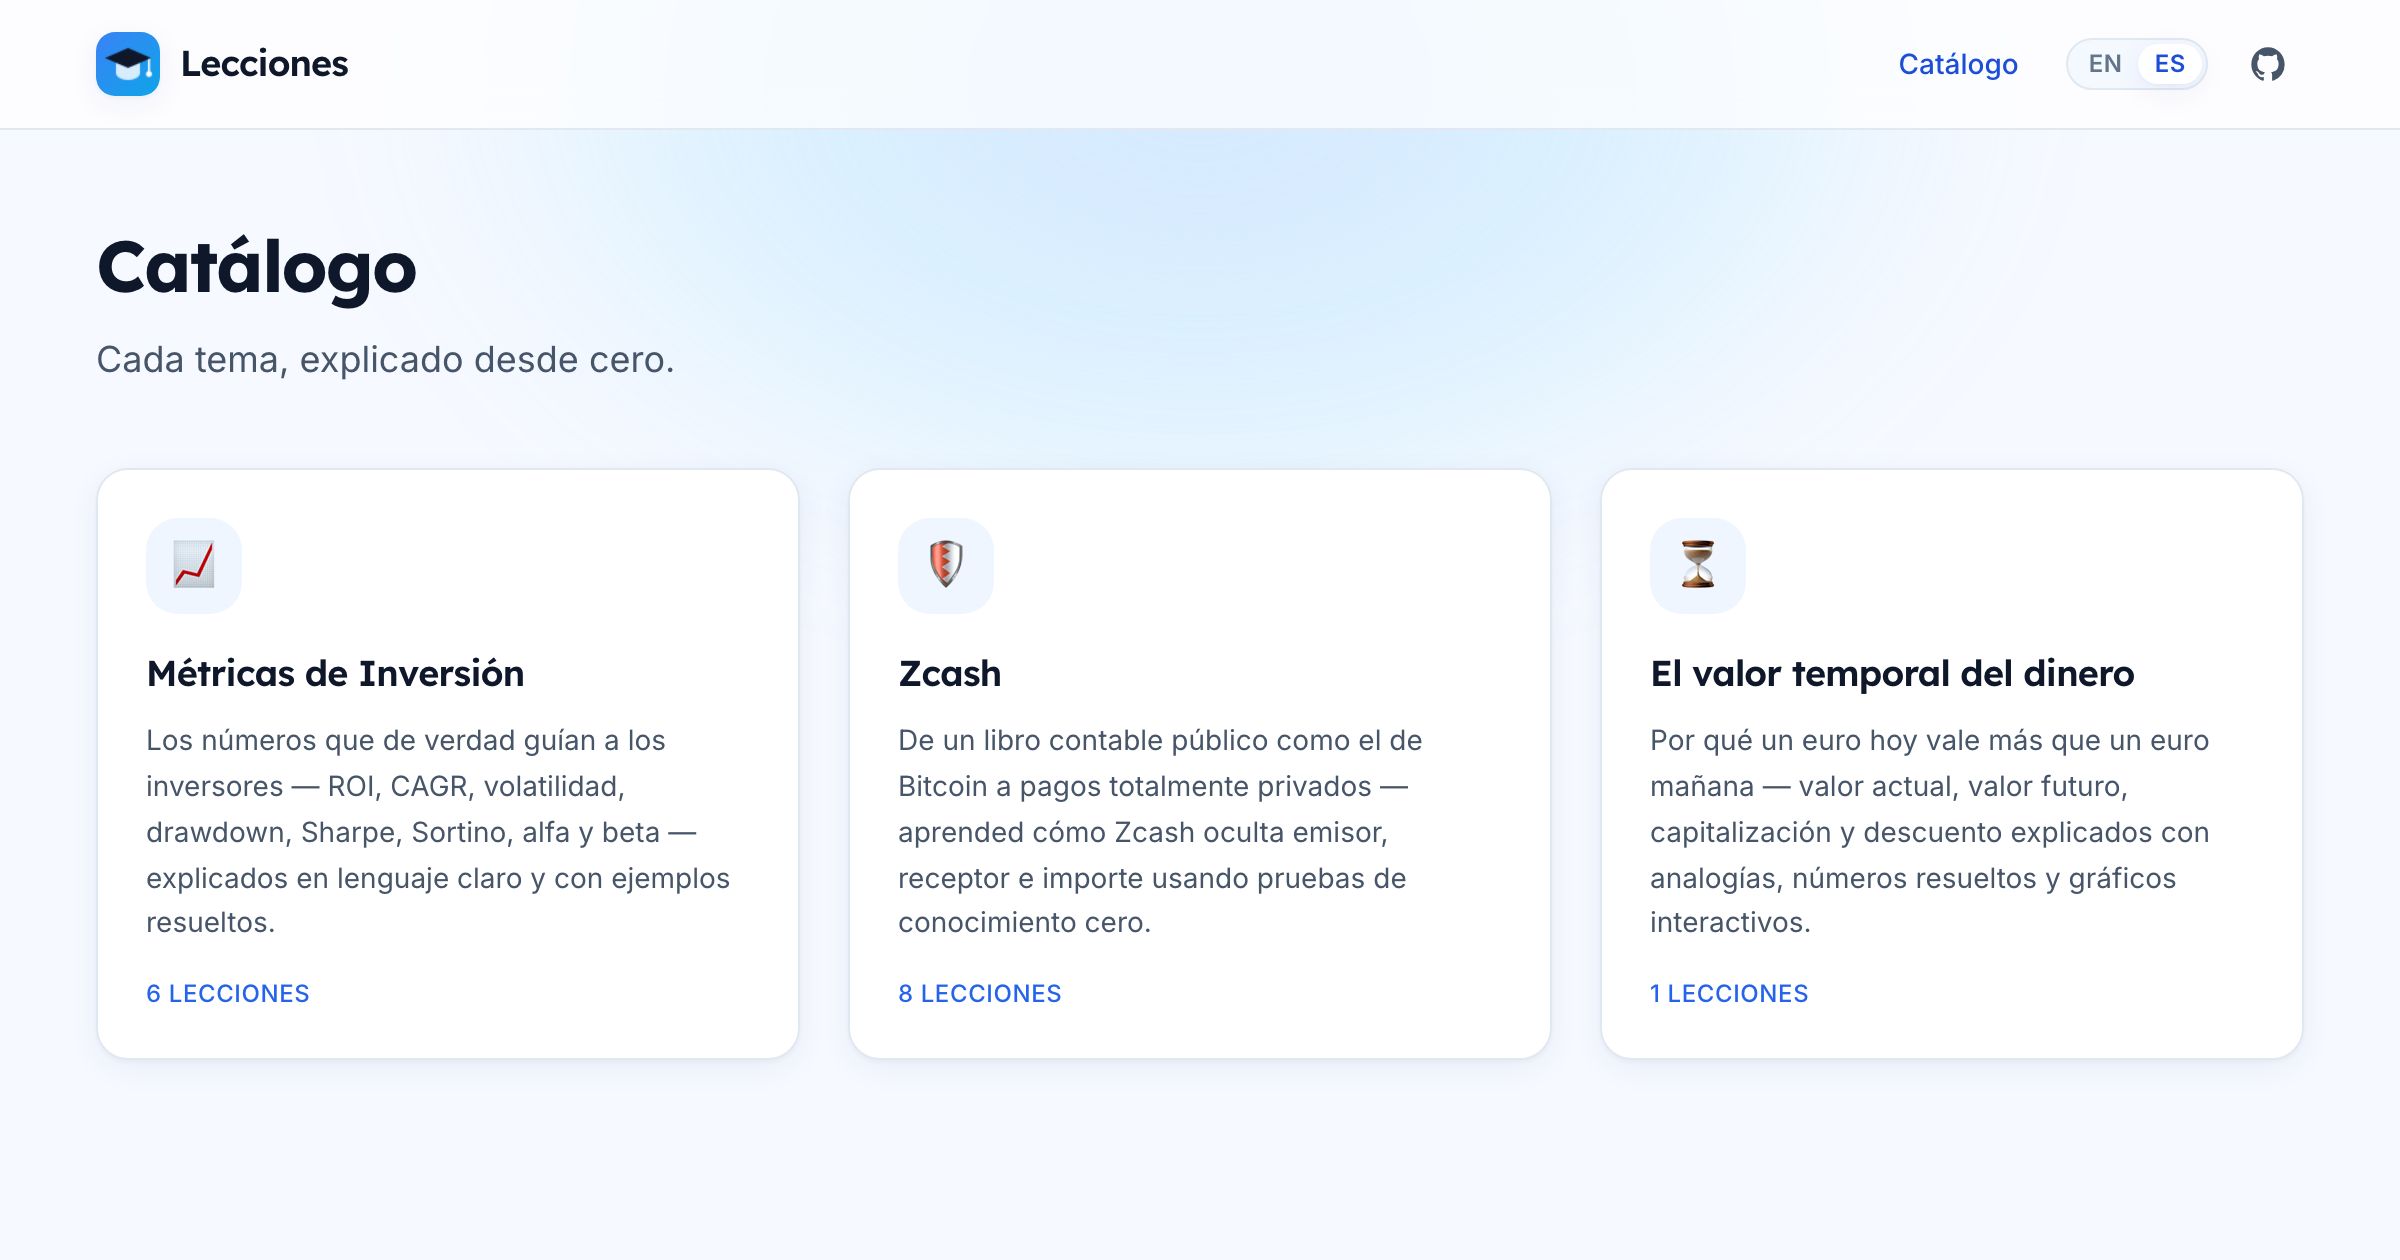
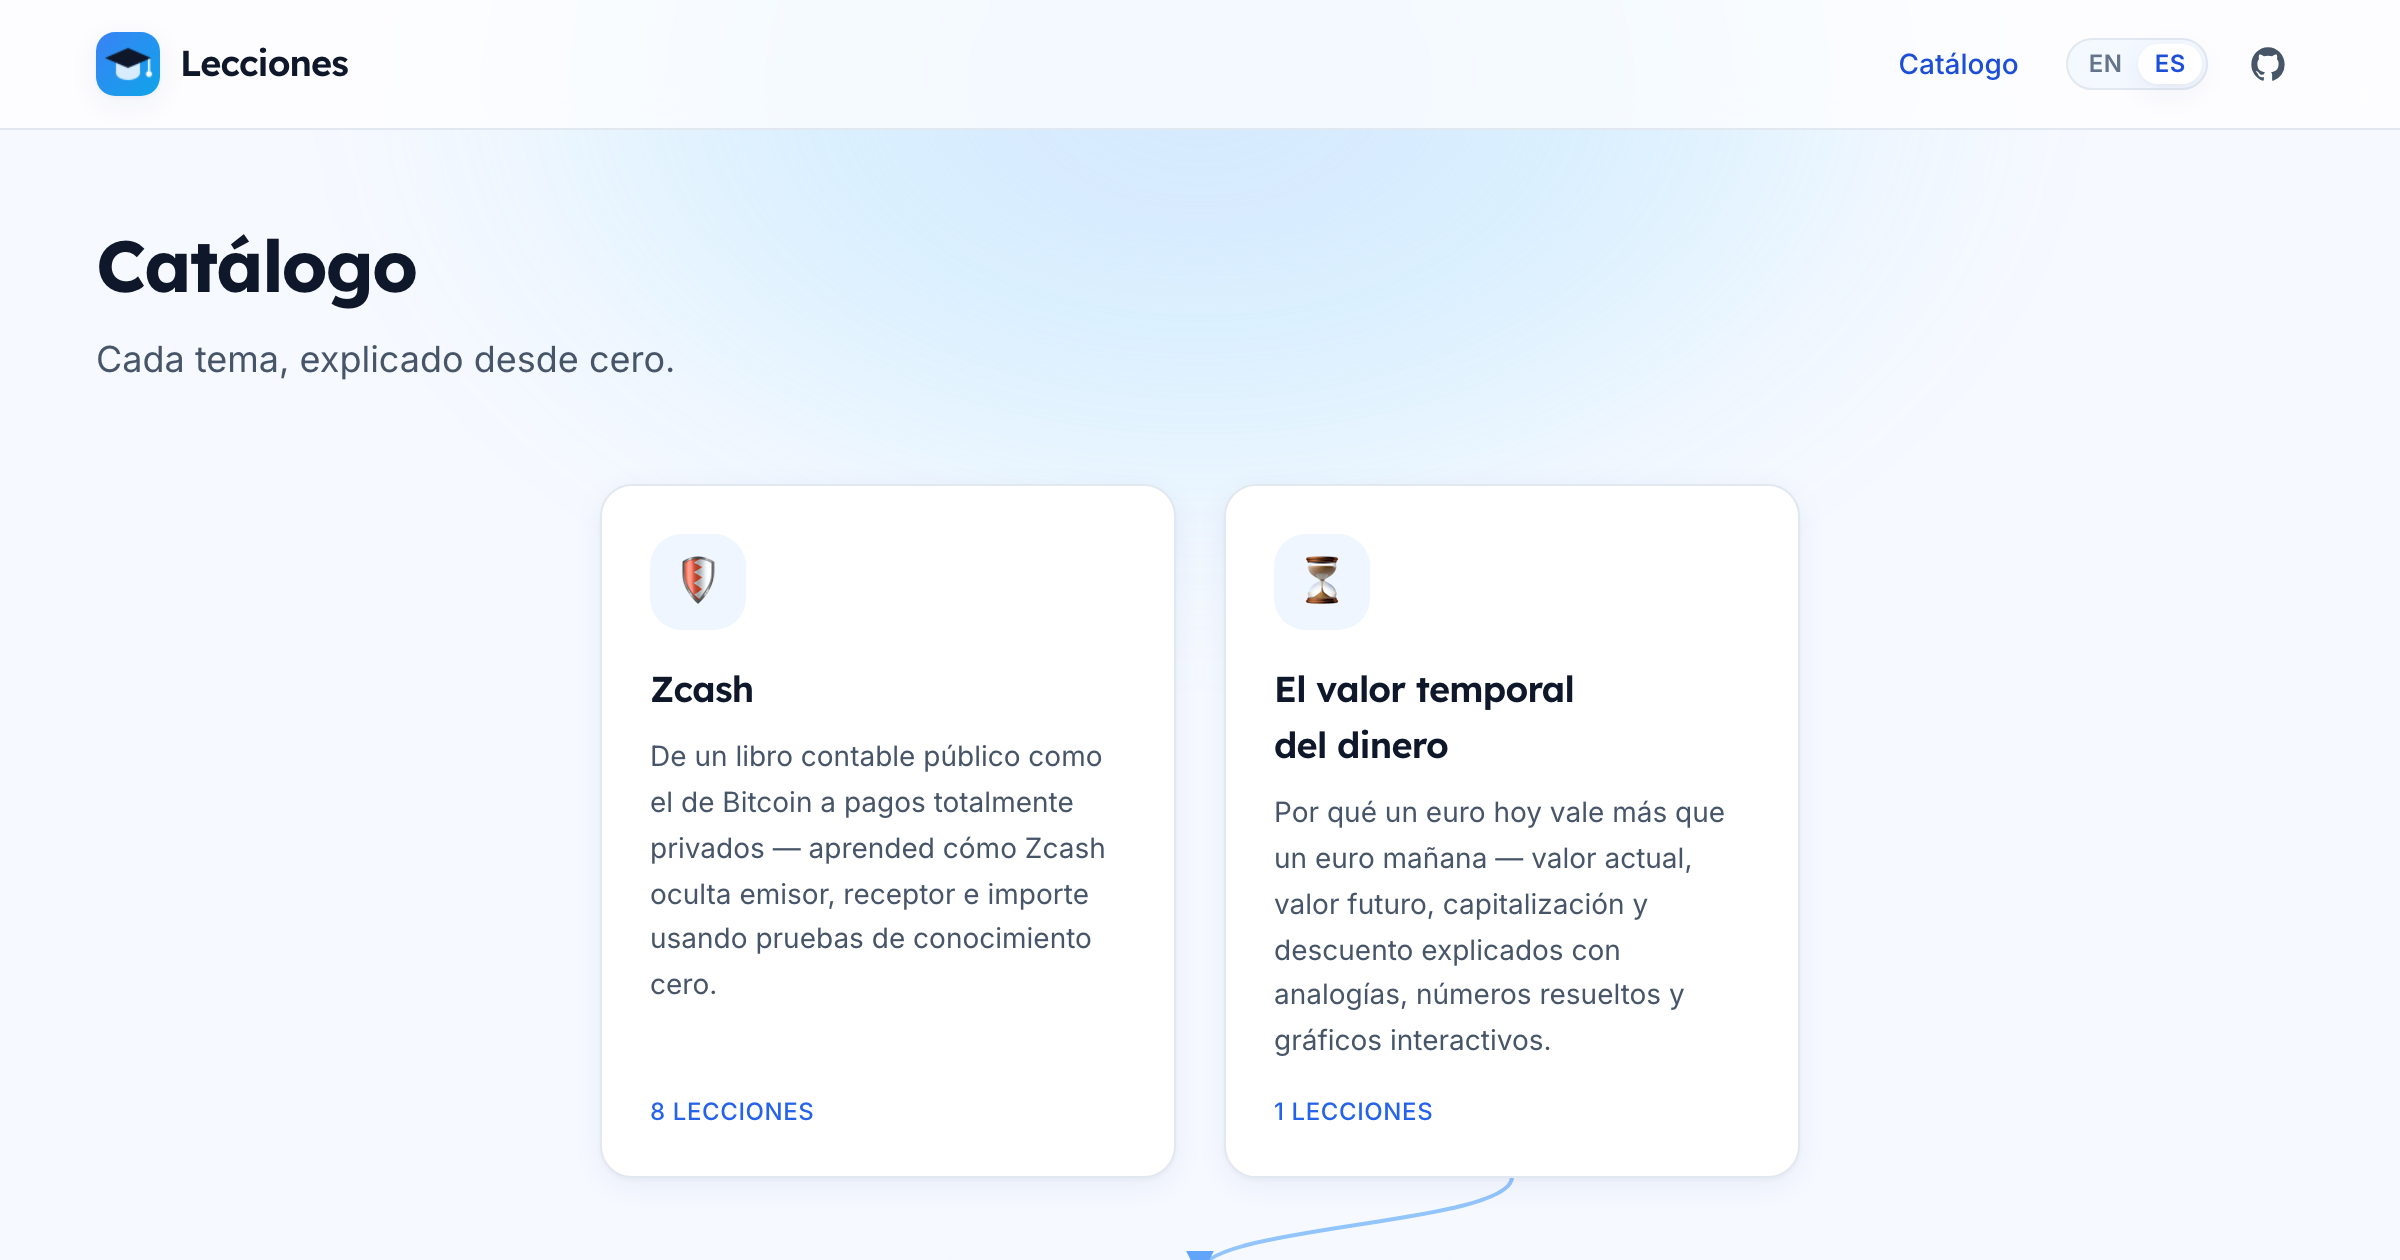
feat(catalog): render catalog as a dependency graph (roadmap.sh-style)
Add a reusable CourseGraph island that plots topics as a layered DAG:
cards flow through responsive flexbox rows (one per dependency depth) and
prerequisite arrows are an SVG overlay measured from the real DOM, so they
stay glued to the cards across resize/font swaps. Cards are real links in
reading order (a11y), motion-reduce safe.

Add a locale-agnostic `dependencies` (bare slugs) field to the topics
schema; wire both catalog pages to the graph. Adding a course needs no code
change — just a topic MDX with its dependencies array.

diff --git a/src/components/react/CourseGraph.tsx b/src/components/react/CourseGraph.tsx
@@ -1,0 +1,266 @@
+import { useCallback, useEffect, useLayoutEffect, useRef, useState } from 'react';
+import { cx } from '@/components/react/cx';
+
+/**
+ * One course (topic) node in the {@link CourseGraph}. Locale-agnostic: all
+ * user-facing strings (`title`, `description`) and the `href` are resolved by
+ * the caller, so the same component renders the en and es catalogs.
+ */
+export interface CourseNode {
+  /** Bare topic slug — stable id used to wire up {@link dependencies}. */
+  slug: string;
+  /** Localized course title. */
+  title: string;
+  /** Localized one-line summary. */
+  description: string;
+  /** Emoji / short chip label. */
+  icon: string;
+  /** Localized link to the topic landing page. */
+  href: string;
+  /** Number of lessons inside the course. */
+  lessons: number;
+  /** Accent token suffix used for the node tint. */
+  accent?: 'brand' | 'accent';
+  /**
+   * Bare slugs of prerequisite courses (drawn as incoming edges). Unknown
+   * slugs are ignored so a half-built dependency list never breaks the graph.
+   */
+  dependencies?: string[];
+}
+
+/** Props for the {@link CourseGraph} component. */
+export interface CourseGraphProps {
+  /** Every course to plot. Order within a layer follows array order. */
+  nodes: CourseNode[];
+  /** Label after the lesson count, e.g. `'lessons'`. */
+  lessonsLabel?: string;
+  /** Caption shown beneath the graph (e.g. how to read the arrows). */
+  caption?: string;
+  /** Shown when `nodes` is empty. */
+  emptyLabel?: string;
+  /** Extra classes merged onto the root element. */
+  className?: string;
+}
+
+/** A measured edge: a cubic-bezier path string from prerequisite → course. */
+interface EdgePath {
+  id: string;
+  d: string;
+}
+
+/**
+ * Topological depth of every node = its layer (row) in the graph. A node with
+ * no (known) prerequisites sits on layer 0; otherwise it's one below its
+ * deepest prerequisite. Cycles and dangling deps are tolerated — a node never
+ * counts itself and unknown slugs are skipped — so the layout always resolves.
+ */
+function computeLayers(nodes: CourseNode[]): Map<string, number> {
+  const bySlug = new Map(nodes.map((n) => [n.slug, n]));
+  const depth = new Map<string, number>();
+
+  const visit = (slug: string, stack: Set<string>): number => {
+    const cached = depth.get(slug);
+    if (cached !== undefined) return cached;
+    const node = bySlug.get(slug);
+    if (!node) return 0;
+    // Guard against cycles: treat a back-edge as no constraint.
+    if (stack.has(slug)) return 0;
+    stack.add(slug);
+
+    const deps = (node.dependencies ?? []).filter((d) => bySlug.has(d) && d !== slug);
+    const d = deps.length === 0 ? 0 : 1 + Math.max(...deps.map((dep) => visit(dep, stack)));
+    stack.delete(slug);
+    depth.set(slug, d);
+    return d;
+  };
+
+  for (const n of nodes) visit(n.slug, new Set());
+  return depth;
+}
+
+/**
+ * Catalog graph island — renders every course as a card and draws an arrow
+ * from each prerequisite to the courses that depend on it, roadmap.sh-style,
+ * so the learning order and dependencies are obvious at a glance.
+ *
+ * Layout is deliberately split in two: the **cards** flow through plain,
+ * responsive flexbox rows (one row per dependency layer), while the **edges**
+ * are an SVG overlay whose paths are *measured* from the real DOM positions
+ * after layout — so the arrows stay glued to the cards through any reflow
+ * (resize, font swap, wrapping) without hand-computed coordinates. Cards are
+ * real `<a>` links in reading order, keeping the graph keyboard- and
+ * screen-reader-navigable; the SVG is decorative (`aria-hidden`).
+ *
+ * To add a course: drop a new topic MDX with a `dependencies` array — no
+ * code changes here.
+ */
+export function CourseGraph({
+  nodes,
+  lessonsLabel = 'lessons',
+  caption,
+  emptyLabel = 'No courses yet — check back soon.',
+  className,
+}: CourseGraphProps) {
+  const containerRef = useRef<HTMLDivElement>(null);
+  // One DOM ref per card, keyed by slug, so we can measure centers for edges.
+  const cardRefs = useRef(new Map<string, HTMLAnchorElement>());
+  const [edges, setEdges] = useState<EdgePath[]>([]);
+  const [size, setSize] = useState<{ w: number; h: number }>({ w: 0, h: 0 });
+
+  const layers = computeLayers(nodes);
+  const maxLayer = nodes.reduce((m, n) => Math.max(m, layers.get(n.slug) ?? 0), 0);
+  // Group nodes into rows by layer, preserving array order within each row.
+  const rows: CourseNode[][] = Array.from({ length: maxLayer + 1 }, () => []);
+  for (const n of nodes) rows[layers.get(n.slug) ?? 0].push(n);
+
+  const measure = useCallback(() => {
+    const container = containerRef.current;
+    if (!container) return;
+    const box = container.getBoundingClientRect();
+    const centerOf = (el: HTMLElement) => {
+      const r = el.getBoundingClientRect();
+      return {
+        top: r.top - box.top,
+        bottom: r.bottom - box.top,
+        cx: r.left - box.left + r.width / 2,
+      };
+    };
+
+    const next: EdgePath[] = [];
+    const bySlug = new Set(nodes.map((n) => n.slug));
+    for (const n of nodes) {
+      const toEl = cardRefs.current.get(n.slug);
+      if (!toEl) continue;
+      const to = centerOf(toEl);
+      for (const dep of n.dependencies ?? []) {
+        if (!bySlug.has(dep) || dep === n.slug) continue;
+        const fromEl = cardRefs.current.get(dep);
+        if (!fromEl) continue;
+        const from = centerOf(fromEl);
+        // Bezier from prerequisite's bottom edge to dependent's top edge.
+        const x1 = from.cx;
+        const y1 = from.bottom;
+        const x2 = to.cx;
+        const y2 = to.top;
+        const dy = Math.max(24, (y2 - y1) / 2);
+        next.push({
+          id: `${dep}->${n.slug}`,
+          d: `M ${x1} ${y1} C ${x1} ${y1 + dy}, ${x2} ${y2 - dy}, ${x2} ${y2}`,
+        });
+      }
+    }
+    setSize({ w: container.clientWidth, h: container.clientHeight });
+    setEdges(next);
+  }, [nodes]);
+
+  // Measure after layout and on every resize of the container.
+  useLayoutEffect(() => {
+    measure();
+  }, [measure]);
+
+  useEffect(() => {
+    const container = containerRef.current;
+    if (!container || typeof ResizeObserver === 'undefined') return;
+    const ro = new ResizeObserver(() => measure());
+    ro.observe(container);
+    // Re-measure once web fonts settle (they shift card heights).
+    if (typeof document !== 'undefined' && 'fonts' in document) {
+      document.fonts.ready.then(() => measure()).catch(() => {});
+    }
+    return () => ro.disconnect();
+  }, [measure]);
+
+  if (nodes.length === 0) {
+    return <p className={cx('mt-12 text-ink-500', className)}>{emptyLabel}</p>;
+  }
+
+  return (
+    <figure className={cx('not-prose', className)}>
+      <div ref={containerRef} className="relative">
+        {/* Edge overlay — measured from the cards, purely decorative. */}
+        <svg
+          aria-hidden="true"
+          className="pointer-events-none absolute inset-0 h-full w-full overflow-visible"
+          width={size.w || undefined}
+          height={size.h || undefined}
+        >
+          <defs>
+            <marker
+              id="course-arrow"
+              viewBox="0 0 10 10"
+              refX="8"
+              refY="5"
+              markerWidth="7"
+              markerHeight="7"
+              orient="auto-start-reverse"
+            >
+              <path d="M 0 0 L 10 5 L 0 10 z" className="fill-brand-400" />
+            </marker>
+          </defs>
+          {edges.map((e) => (
+            <path
+              key={e.id}
+              d={e.d}
+              fill="none"
+              className="stroke-brand-300"
+              strokeWidth={2}
+              strokeLinecap="round"
+              markerEnd="url(#course-arrow)"
+            />
+          ))}
+        </svg>
+
+        {/* Card layers — plain responsive flow; arrows snap to these. */}
+        <ol className="relative flex list-none flex-col gap-y-12 p-0">
+          {rows.map((row, layer) => (
+            <li key={layer} className="m-0 p-0">
+              <ul className="flex list-none flex-wrap justify-center gap-6 p-0">
+                {row.map((n) => {
+                  const tint = n.accent === 'accent' ? 'bg-accent-50' : 'bg-brand-50';
+                  const tintText =
+                    n.accent === 'accent' ? 'group-hover:text-accent-700' : 'group-hover:text-brand-700';
+                  return (
+                    <li key={n.slug} className="m-0 p-0">
+                      <a
+                        ref={(el) => {
+                          if (el) cardRefs.current.set(n.slug, el);
+                          else cardRefs.current.delete(n.slug);
+                        }}
+                        href={n.href}
+                        className="group flex h-full w-72 max-w-[85vw] flex-col rounded-card border border-ink-200 bg-surface p-6 shadow-soft transition-all hover:-translate-y-1 hover:border-brand-300 hover:shadow-lift motion-reduce:transition-none motion-reduce:hover:translate-y-0"
+                      >
+                        <span
+                          className={cx(
+                            'mb-4 grid h-12 w-12 place-items-center rounded-card text-2xl',
+                            tint,
+                          )}
+                        >
+                          {n.icon}
+                        </span>
+                        <h3 className={cx('font-display text-lg font-semibold text-ink-900', tintText)}>
+                          {n.title}
+                        </h3>
+                        <p className="mt-2 flex-1 text-sm leading-relaxed text-ink-600">
+                          {n.description}
+                        </p>
+                        <span className="mt-4 text-xs font-medium uppercase tracking-wide text-brand-600">
+                          {n.lessons} {lessonsLabel}
+                        </span>
+                      </a>
+                    </li>
+                  );
+                })}
+              </ul>
+            </li>
+          ))}
+        </ol>
+      </div>
+
+      {caption ? (
+        <figcaption className="mt-6 text-center text-sm text-ink-500">{caption}</figcaption>
+      ) : null}
+    </figure>
+  );
+}
+
+export default CourseGraph;

diff --git a/src/content.config.ts b/src/content.config.ts
@@ -46,6 +46,13 @@ const topics = defineCollection({
     order: z.number().default(999),
     /** Accent color token suffix, e.g. "brand" | "accent". */
     accent: z.enum(['brand', 'accent']).default('brand'),
+    /**
+     * Bare slugs of prerequisite topics, used to draw the catalog dependency
+     * graph (roadmap.sh-style). Locale-agnostic: list the same slugs in the en
+     * and es twins. Unknown slugs are ignored, so adding a course is just a new
+     * MDX file with its `dependencies` array — no code changes.
+     */
+    dependencies: z.array(z.string()).default([]),
     draft: z.boolean().default(false),
     seo,
   }),

diff --git a/src/components/react/index.ts b/src/components/react/index.ts
@@ -55,3 +55,6 @@ export type { FillBlankProps } from '@/components/react/FillBlank';
 
 export { PresentValueDecay, default as PresentValueDecayDefault } from '@/components/react/PresentValueDecay';
 export type { PresentValueDecayProps } from '@/components/react/PresentValueDecay';
+
+export { CourseGraph, default as CourseGraphDefault } from '@/components/react/CourseGraph';
+export type { CourseGraphProps, CourseNode } from '@/components/react/CourseGraph';

diff --git a/src/i18n/ui.ts b/src/i18n/ui.ts
@@ -26,6 +26,7 @@ export const ui = {
     'catalog.title': 'Catalog',
     'catalog.subtitle': 'Every topic, taught from scratch.',
     'catalog.lessons': 'lessons',
+    'catalog.graphHint': 'Arrows point from a course to the ones that build on it — follow them top to bottom.',
     'lesson.toc': 'On this page',
     'lesson.minutes': 'min',
     'lesson.updated': 'Updated',
@@ -57,6 +58,7 @@ export const ui = {
     'catalog.title': 'Catálogo',
     'catalog.subtitle': 'Cada tema, explicado desde cero.',
     'catalog.lessons': 'lecciones',
+    'catalog.graphHint': 'Las flechas van de un curso a los que se apoyan en él — síguelas de arriba abajo.',
     'lesson.toc': 'En esta página',
     'lesson.minutes': 'min',
     'lesson.updated': 'Actualizado',